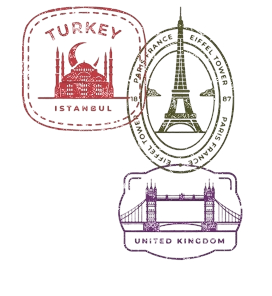
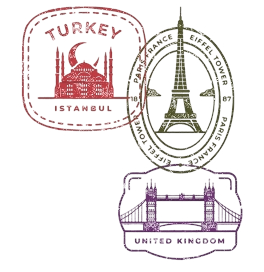
style changes

Changed region(s): [[0.0606, 0.0, 0.9394, 0.9412], [0.6061, 0.9412, 0.7576, 0.9706]]

diff --git a/about.css b/about.css
@@ -134,6 +134,7 @@ html, body {
     font-family: "Pinyon Script", cursive;
     font-size: 1.4rem;
     color: #8b5e4a;
+    pointer-events: none;
 }
 
 .content {
@@ -142,6 +143,7 @@ html, body {
     overflow-wrap: break-word;
     font-size: clamp(0.78rem, 1.25vw, 1rem);
     line-height: 1.5;
+    pointer-events: none;
 }
 
 .content p {
@@ -152,6 +154,7 @@ html, body {
     color: #a45c6d;
     font-size: 1.35em;
     font-weight: 600;
+    pointer-events: none;
 }
 
 .stamp {
@@ -165,6 +168,7 @@ html, body {
     color: #8b5e4a;
     border: 2px dashed #c08d7e;
     transform: rotate(5deg);
+    pointer-events: none;
 }
 
 .env-front {
